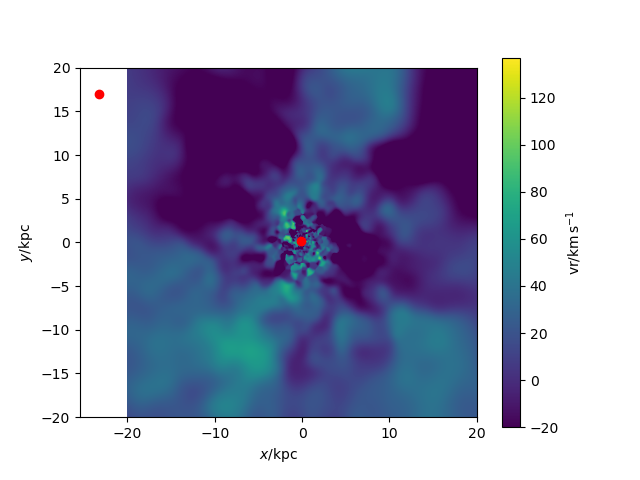
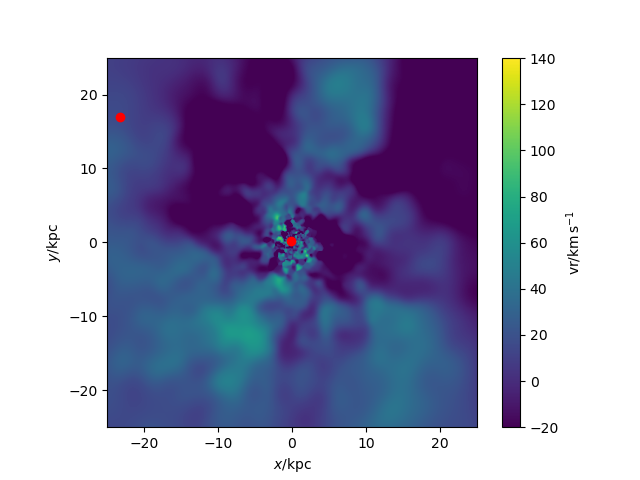
axis updated

diff --git a/r154/galaxy154_iongas.py b/r154/galaxy154_iongas.py
@@ -13,13 +13,14 @@ s=pynbody.load('/mnt/data0/jillian/gguaman/r154/cosmo25p.768sg1bwK1BHe75.007779'
 s.physical_units()
 
 #centering halo
-pynbody.analysis.angmom.faceon(s)
+#pynbody.analysis.angmom.faceon(s)
+pynbody.analysis.angmom.sideon(s)
 
 #filter to only use ionised gas
 GasFilter = pynbody.filt.HighPass('temp','15848 K')
 
 #creating image to show velocity of ionised gas
-sph.image(s.g[GasFilter],qty="vr",vmin=-20,width=40,denoise=True,approximate_fast=False,log=False)
+sph.image(s.g[GasFilter],qty="vr",vmin=-20,width=50,denoise=True,approximate_fast=False,log=False)
 
 #function to find BH
 def findBH(s):
@@ -44,5 +45,5 @@ for i in range(len(BH)):
     plt.plot(BHx,BHy, 'ro')
 
 #plt.show()
-plt.savefig("galaxy154_iongas.png")
-
+#plt.savefig("galaxy154_iongas.png")
+plt.savefig("galaxy154_iongas(side).png")

diff --git a/r154/galaxy154_velocity.py b/r154/galaxy154_velocity.py
@@ -12,10 +12,11 @@ s=pynbody.load('/mnt/data0/jillian/gguaman/r154/cosmo25p.768sg1bwK1BHe75.007779'
 s.physical_units()
 
 #centering halo
-pynbody.analysis.angmom.faceon(s)
+#pynbody.analysis.angmom.faceon(s)
+pynbody.analysis.angmom.sideon(s)
 
 #creating gas velocity plot
-sph.image(s.g,qty="vr",width=40,denoise=True,approximate_fast=False,log=False)
+sph.image(s.g,qty="vr",width=50,denoise=True,approximate_fast=False,log=False)
 
 #function to find BH
 def findBH(s):
@@ -43,4 +44,5 @@ for i in range(len(BH)):
     plt.plot(BHx,BHy, 'ro')
 
 #plt.show()
-plt.savefig("galaxy154_velocity.png")
+#plt.savefig("galaxy154_velocity.png")
+plt.savefig("galaxy154_velocity(side).png")

diff --git a/r154/galaxy154_temp.py b/r154/galaxy154_temp.py
@@ -12,10 +12,11 @@ s=pynbody.load('/mnt/data0/jillian/gguaman/r154/cosmo25p.768sg1bwK1BHe75.007779'
 s.physical_units()
 
 #centering halo
-pynbody.analysis.angmom.faceon(s)
+#pynbody.analysis.angmom.faceon(s)
+pynbody.analysis.angmom.sideon(s)
 
 #creating slice to show gas temp
-sph.image(s.g,qty="temp",width=40,denoise=True,approximate_fast=False,log=True)
+sph.image(s.g,qty="temp",width=50,denoise=True,approximate_fast=False,log=True)
 
 #function to find BH
 def findBH(s):
@@ -40,4 +41,5 @@ for i in range(len(BH)):
     plt.plot(BHx,BHy, 'ro')
 
 #plt.show()
-plt.savefig("galaxy154_temp.png")
+#plt.savefig("galaxy154_temp.png")
+plt.savefig("galaxy154_temp(side).png")

diff --git a/r154/galaxy154_dens.py b/r154/galaxy154_dens.py
@@ -10,10 +10,11 @@ s=pynbody.load('/mnt/data0/jillian/gguaman/r154/cosmo25p.768sg1bwK1BHe75.007779'
 s.physical_units()
 
 #centering halo and aligning disk
-pynbody.analysis.angmom.faceon(s)
+#pynbody.analysis.angmom.faceon(s)
+pynbody.analysis.angmom.sideon(s)
 
 #creating gas density slice
-sph.image(s.g,qty="rho",units="g cm^-3",width=40)
+sph.image(s.g,qty="rho",units="g cm^-3",width=50)
 
 #function to find BH
 def findBH(s):
@@ -37,4 +38,5 @@ for i in range(len(BH)):
     plt.plot(BHx,BHy, 'ro')
 
 #plt.show()
-plt.savefig("galaxy154_dens.png")
+#plt.savefig("galaxy154_dens.png")
+plt.savefig("galaxy154_dens(side).png")

diff --git a/r154/galaxy154_stars.py b/r154/galaxy154_stars.py
@@ -10,10 +10,12 @@ s=pynbody.load('/mnt/data0/jillian/gguaman/r154/cosmo25p.768sg1bwK1BHe75.007779'
 s.physical_units()
 
 #centering halo
-pynbody.analysis.angmom.faceon(s)
+#pynbody.analysis.angmom.faceon(s)
+pynbody.analysis.angmom.sideon(s)
 
 #creating image using default bands(i,v,u)
-pynbody.plot.stars.render(s,width='12 kpc')
+pynbody.plot.stars.render(s,width='50 kpc')
 
 #plt.show()
-plt.savefig("galaxy154_stars.png")
+#plt.savefig("galaxy154_stars.png")
+plt.savefig("galaxy154_stars(side).png")
